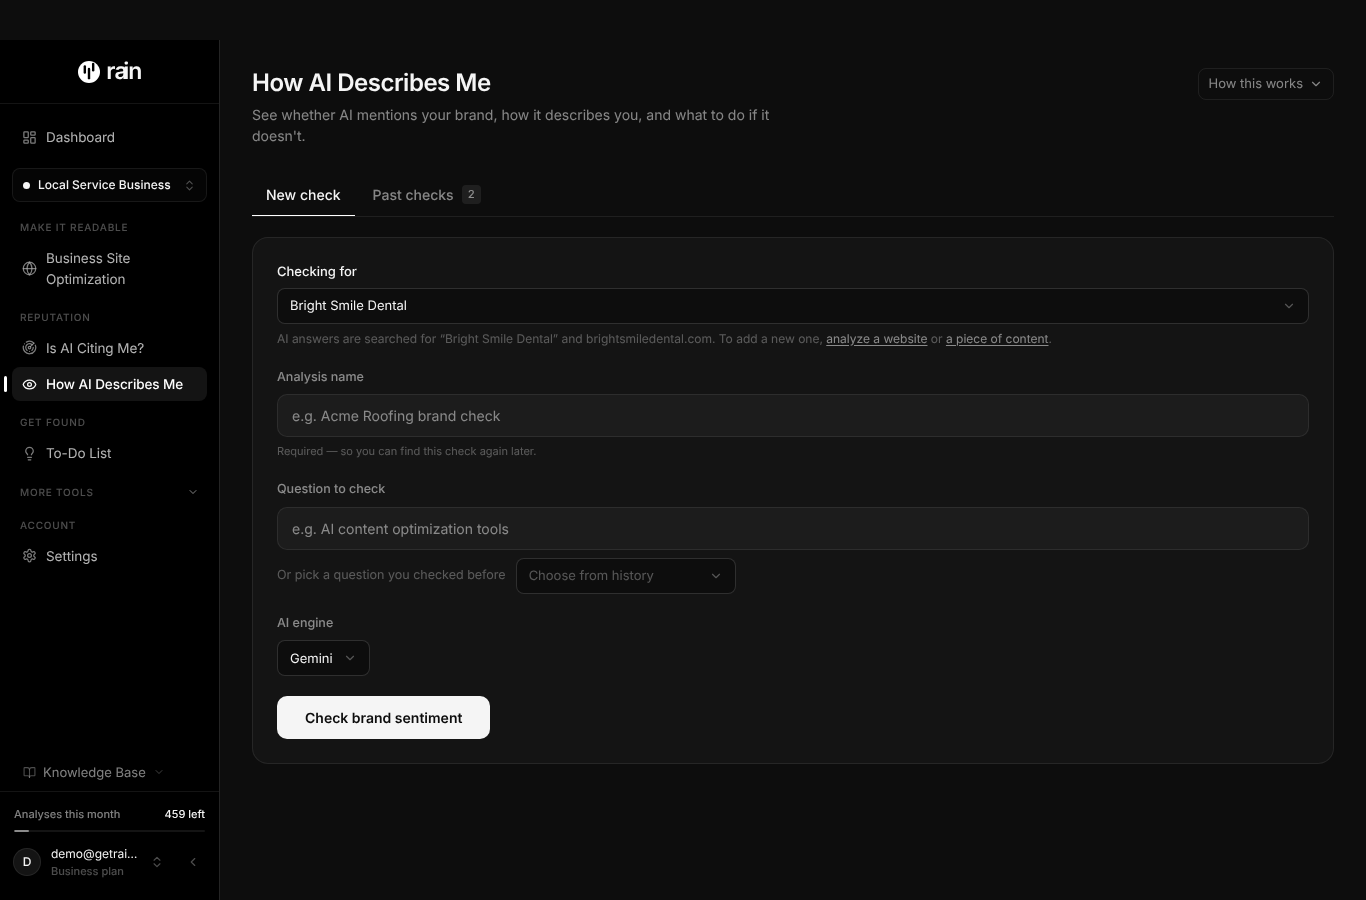
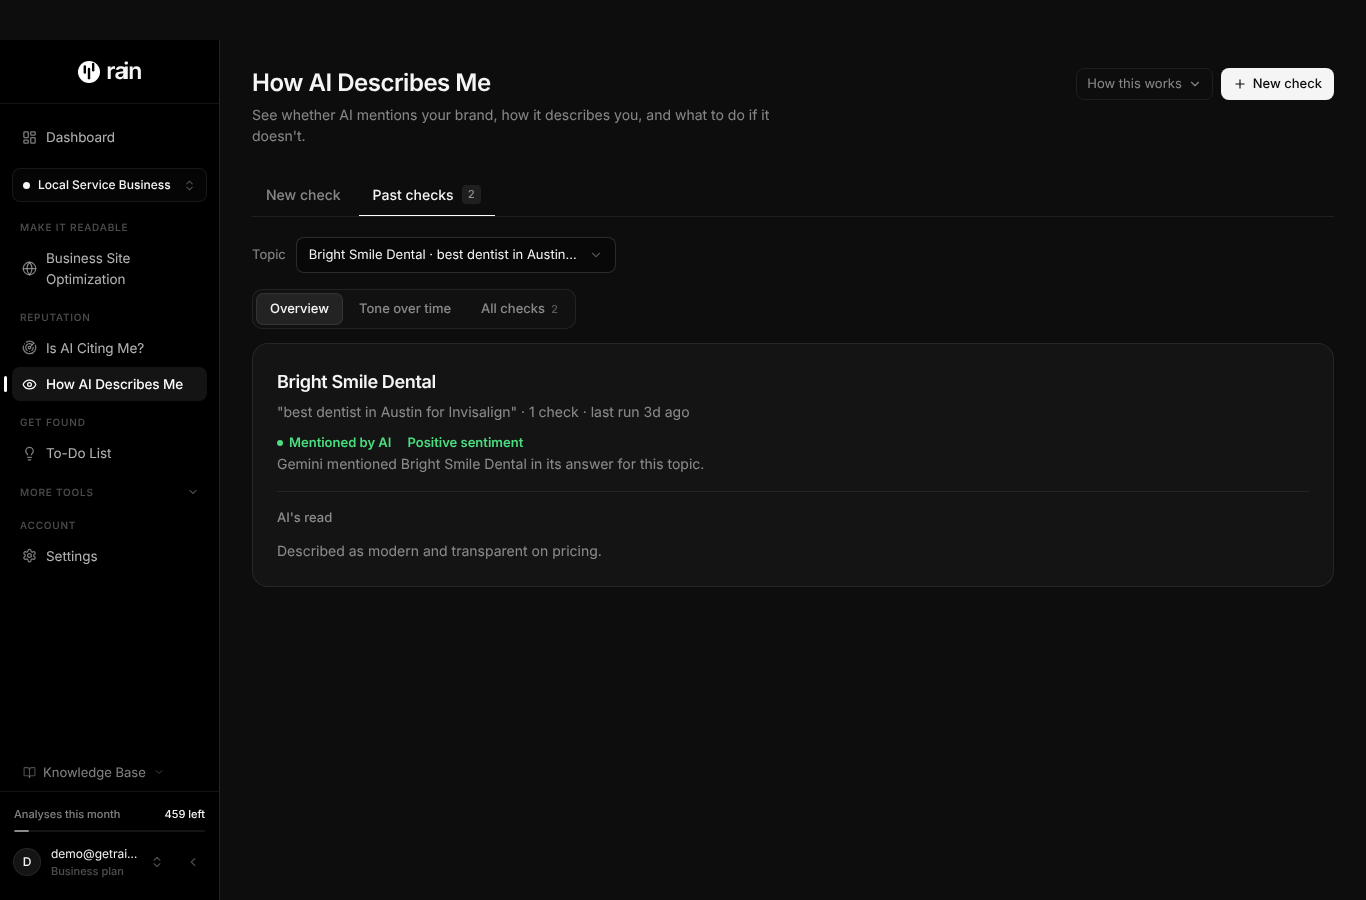
Tool pictures: real results from the demo for the three tools
The Is AI Citing Me?, Who AI Recommends and How AI Describes Me rows now show
the results screens from a saved check in the demo, not the empty form. Captured
with the demo banner hidden.

Claude-Session: https://claude.ai/code/session_01QcfqZJjyDAgHof28aDGtoe

diff --git a/web-app/src/pages/Home.tsx b/web-app/src/pages/Home.tsx
@@ -234,7 +234,7 @@ const TOOLS = [
     body: 'Ask the questions your customers ask, and see whether each AI tool links to your pages as a source, and which pages it links to.',
     ways: [],
     href: '/citation-monitor',
-    visual: { src: '/screens/app/is-ai-citing-me.png', alt: 'The Is AI Citing Me? screen: enter a question, pick a business and see which AI tools cite it' },
+    visual: { src: '/screens/app/is-ai-citing-me.png', alt: 'The Is AI Citing Me? results: your position across checks, and which AI tools cite your business' },
   },
   {
     key: 'recommends',
@@ -243,7 +243,7 @@ const TOOLS = [
     body: 'Share of AI voice: how often each AI tool names your business compared with the competitors it names.',
     ways: [],
     href: '/share-of-voice',
-    visual: { src: '/screens/app/who-ai-recommends.png', alt: 'The Who AI Recommends screen: pick a business, add a question and competitors, and check share of AI voice' },
+    visual: { src: '/screens/app/who-ai-recommends.png', alt: 'The Who AI Recommends results: how often AI mentions your business for a topic, against competitors' },
   },
   {
     key: 'describes',
@@ -252,7 +252,7 @@ const TOOLS = [
     body: 'The wording each AI uses for your business, and whether it reads as positive, neutral or negative, so you know what to change.',
     ways: [],
     href: '/brand-visibility',
-    visual: { src: '/screens/app/how-ai-describes-me.png', alt: 'The How AI Describes Me screen: pick a business and check how AI describes it' },
+    visual: { src: '/screens/app/how-ai-describes-me.png', alt: 'The How AI Describes Me results: whether AI mentions your business, its sentiment, and how it describes you' },
   },
 ];
 
